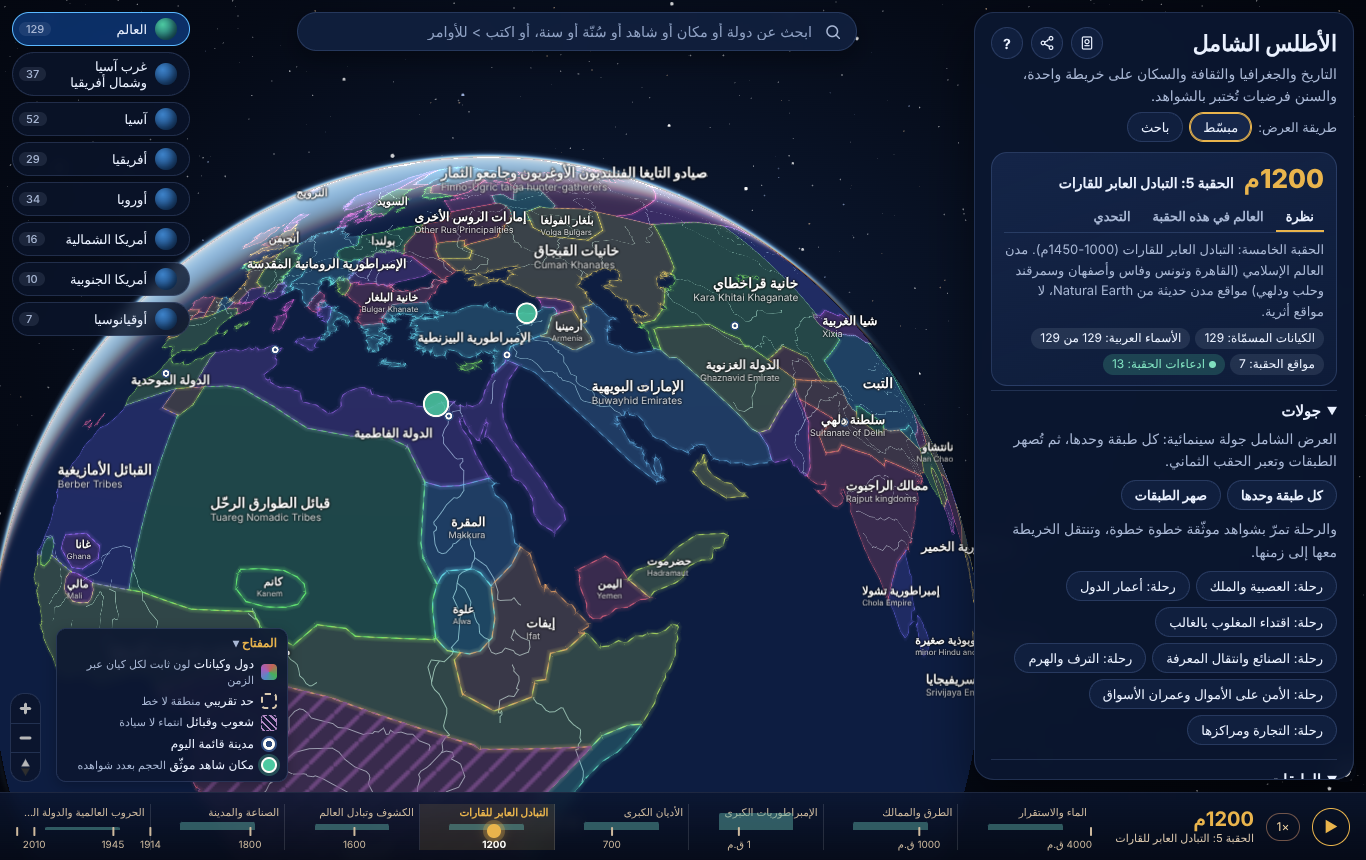
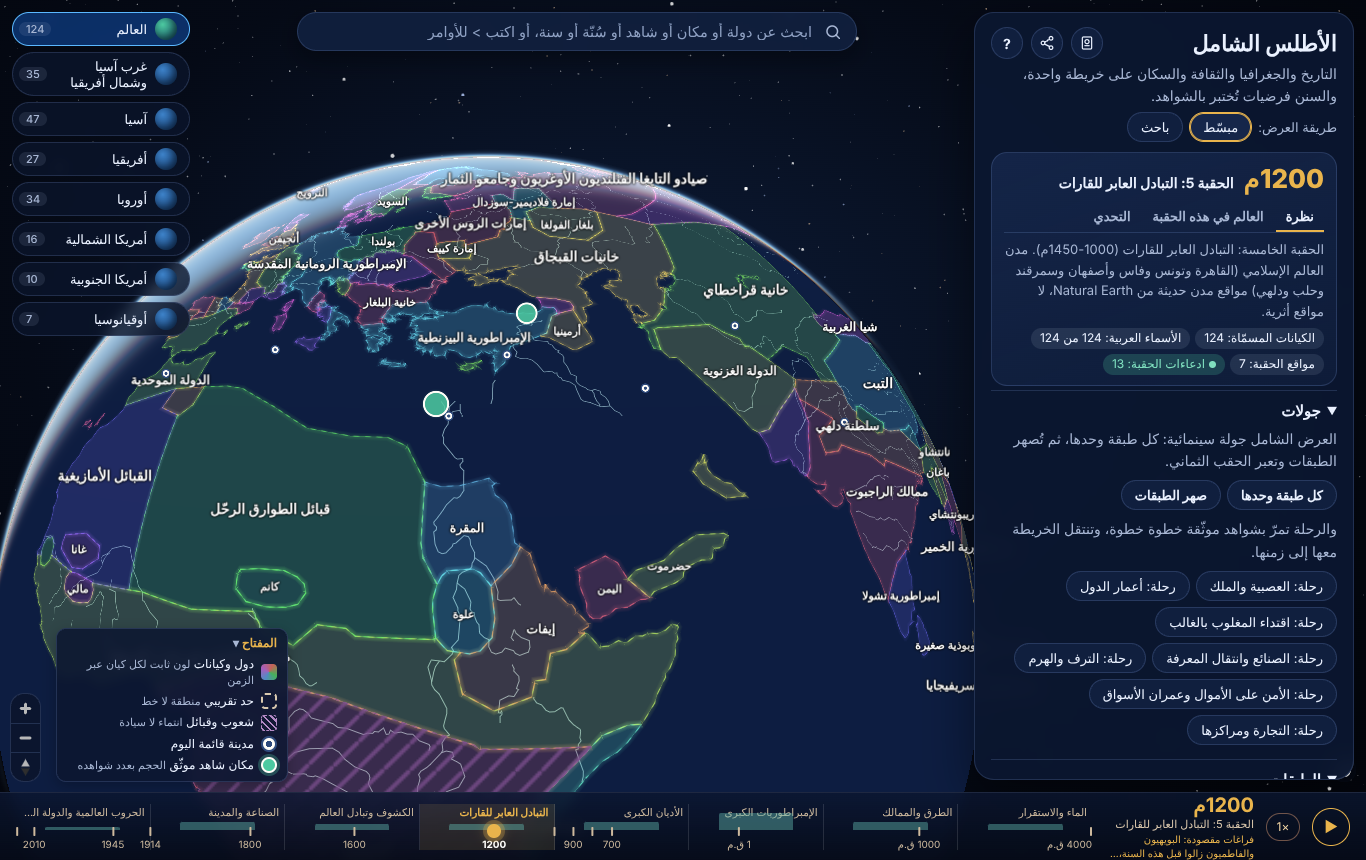
ادمج #106: تسميات عربية فقط على الخريطة، وتفسير الفراغات في الشريط الزمني
- التسميات المعرّبة لا تعرض الإنجليزي تحتها على الخريطة؛ يبقى في التلميح عند التمرير.
- في السنوات التي تُقصد فيها فراغات (700 و1200 و1600) يظهر سطر قصير في الشريط الزمني يفسّر السبب.
  على الهاتف لا يظهر السطر لضيق المساحة، وتبقى الملاحظة في تلميح الحقبة.
- body بلا تمرير أفقي، لإزالة تجاوز 4 بكسل على سطح المكتب.
- تحديث لقطتي الصفحة الرئيسية المرجعيتين، لأن التسميات والشريط تغيّرا عمداً.

Claude-Session: https://claude.ai/code/session_01EKgcrpAVTTmkELDxDHoHAK

diff --git a/web/index.html b/web/index.html
@@ -18,6 +18,7 @@
       --sea: #dfe7ea; --land: #f4efe6; --river: #8fb3c4; --relief-shadow: #5c4a36; --relief-light: #fffaf0;
       --relief-0: #eee6cc; --relief-1: #e3d7b2; --relief-2: #d6c393; --relief-3: #c6aa7c; --relief-4: #b39478; --relief-5: #efe9e0; }
     html, body { margin: 0; height: 100%; background: var(--bg); color: var(--ink); font-family: var(--font-b); }
+    body { overflow-x: hidden; }
     button, input, select { font-family: inherit; }
     :focus-visible { outline: 2px solid var(--accent); outline-offset: 2px; }
     #map { position: absolute; inset: 0; }
@@ -420,7 +421,11 @@
     .card-links summary { cursor: pointer; font-weight: 600; }
     .card-links ul { padding-inline-start: 18px; margin: 4px 0; }
     .card-src { font-size: 12px; color: var(--muted); }
-    .country-label.arabized small { display: block; font-size: 0.72em; font-weight: 400; opacity: 0.8; direction: ltr; unicode-bidi: isolate; }
+    /* الإنجليزي تحت الاسم المعرّب يبقى في التلميح عند التمرير، لا على الخريطة */
+    .country-label.arabized small { display: none; }
+    #tb-gap { display: block; font-size: 10px; color: var(--accent); line-height: 1.4; overflow: hidden; display: -webkit-box; -webkit-line-clamp: 2; -webkit-box-orient: vertical; }
+    #tb-gap[hidden] { display: none; }
+    @media (max-width: 600px) { #tb-gap { display: none; } }
 
     /* ---------- الهوية الليلية (مستلهمة من «رحّال»): لوحات كحلية زجاجية، وذهبي للاختيار، وأزرق للتمرير ---------- */
     #panel, #card { background: rgba(11, 22, 48, 0.94); border: 1px solid var(--line); border-radius: 20px; box-shadow: 0 18px 48px rgba(0, 0, 0, 0.45); backdrop-filter: blur(10px); }
@@ -824,7 +829,7 @@
   <div id="timebar" role="group" aria-label="الزمن">
     <button type="button" id="tb-play" aria-pressed="false" aria-label="تشغيل الزمن">▶</button>
     <button type="button" id="tb-speed" aria-label="سرعة التشغيل ×1" title="سرعة التشغيل الزمني">×1</button>
-    <div id="tb-now"><b id="tb-year"></b><span id="tb-era"></span></div>
+    <div id="tb-now"><b id="tb-year"></b><span id="tb-era"></span><span id="tb-gap" hidden></span></div>
     <div id="tb-track" role="slider" tabindex="0" aria-label="سنة الخريطة" aria-valuemin="0" aria-valuemax="10" aria-valuenow="0">
       <div id="tb-bands"></div>
       <div id="tb-stops"></div>

diff --git a/web/app.js b/web/app.js
@@ -2643,10 +2643,19 @@ tbStops.innerHTML = TIME_STOPS.map((k, i) => {
   return `<div class="tb-stop${edge}" data-k="${k}" style="inset-inline-start:${(tbPos(k) * 100).toFixed(2)}%"><i></i><span>${escapeHtml(stopLabel(k))}</span></div>`;
 }).join("");
 let tbPreview = null; // المحطة أثناء السحب، قبل الإفلات
+// فراغات مقصودة على الخريطة: لا تُسمّى أرضٌ لا نعرف كيانها، وسببها في scripts/config/historical_corrections.json
+const GAP_NOTES = {
+  "700": "أرض العراق وإيران بلا كيان مسمّى: الساسانيون زالوا سنة 651 ولا نعرض الدولة التي خلفتهم بلا مصدر.",
+  "1200": "فراغات مقصودة: البويهيون والفاطميون زالوا قبل هذه السنة، والعباسيون والأيوبيون لا مضلعات لهم في المصدر بعد.",
+  "1600": "الإمبراطورية الإنكاوية زالت سنة 1572، فلا تُرسم في 1600.",
+};
 function renderTime() {
   const k = tbPreview ?? time.key;
   if (k == null) return;
   const era = eraOf(k);
+  const gap = document.getElementById("tb-gap");
+  if (gap) { gap.textContent = GAP_NOTES[String(k)] ?? ""; gap.hidden = !GAP_NOTES[String(k)]; }
+  tbEra.title = GAP_NOTES[String(k)] ?? "";
   tbThumb.style.insetInlineStart = `${(tbPos(k) * 100).toFixed(2)}%`;
   tbYear.textContent = yearText(k);
   tbEra.textContent = `الحقبة ${era.id}: ${era.label}`;
